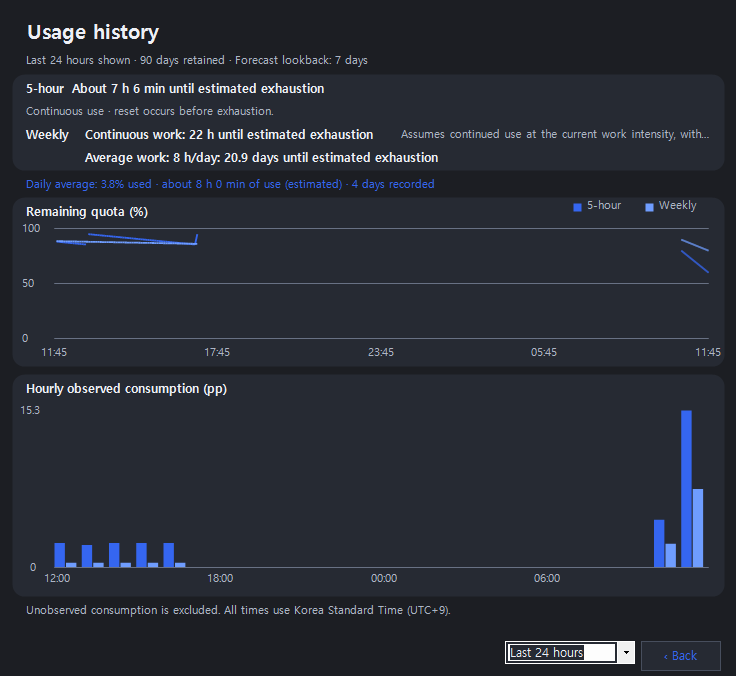
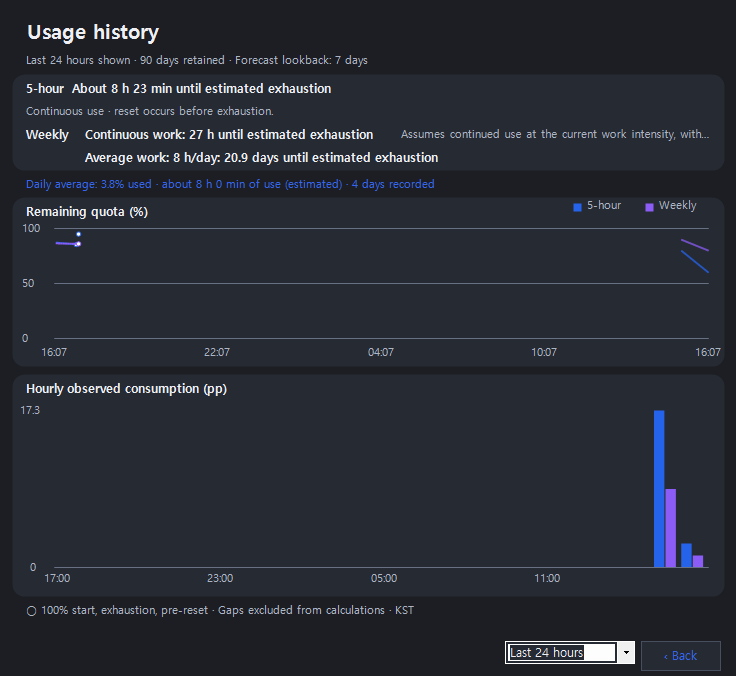
Release v1.0.1

diff --git a/src/HistoryDialog.cs b/src/HistoryDialog.cs
@@ -132,8 +132,9 @@ namespace CodexUsageTaskbar
                     float y=chart.Top+chart.Height*i/2; g.DrawLine(grid,chart.Left,y,chart.Right,y);
                     g.DrawString((100-i*50).ToString(),body,muted,20*s,y-8*s);
                 }
-                DrawSeries(g,chart,history,start,end,false,Widget.Accent,s);
-                Color weeklyColor=Color.FromArgb(111,157,255);
+                Color fiveColor=Color.FromArgb(37,99,235);
+                DrawSeries(g,chart,history,start,end,false,fiveColor,s);
+                Color weeklyColor=Color.FromArgb(139,92,246);
                 DrawSeries(g,chart,history,start,end,true,weeklyColor,s);
                 for(int i=0;i<=4;i++) {
                     var at=ExpiryDisplay.InKorea(start.AddDays(RangeDays*i/4.0)); float x=chart.Left+chart.Width*i/4;
@@ -145,7 +146,7 @@ namespace CodexUsageTaskbar
                 double bucketHours=RangeDays==1?1:RangeDays;
                 double max=1; var five=new double[24]; var week=new double[24];
                 for(int i=0;i<24;i++) { var a=hour.AddHours(i*bucketHours); five[i]=history.Consumption(a,a.AddHours(bucketHours),false); week[i]=history.Consumption(a,a.AddHours(bucketHours),true); max=Math.Max(max,Math.Max(five[i],week[i])); }
-                using(var blue=new SolidBrush(Widget.Accent)) using(var purple=new SolidBrush(weeklyColor)) {
+                using(var blue=new SolidBrush(fiveColor)) using(var purple=new SolidBrush(weeklyColor)) {
                     float step=bars.Width/24;
                     for(int i=0;i<24;i++) {
                         float a=(float)(bars.Height*five[i]/max),b=(float)(bars.Height*week[i]/max);
@@ -158,7 +159,7 @@ namespace CodexUsageTaskbar
                 using(var baseline=new Pen(p.Divider,s))g.DrawLine(baseline,bars.Left,bars.Bottom,bars.Right,bars.Bottom);
                 for(int i=0;i<24;i+=6)g.DrawString(ExpiryDisplay.InKorea(hour.AddHours(i*bucketHours)).ToString(RangeDays==1?"HH:mm":"MM/dd"),body,muted,bars.Left+bars.Width*i/24-12*s,bars.Bottom+3*s);
                 g.DrawString("0",body,muted,28*s,bars.Bottom-8*s);g.DrawString(max.ToString("0.#"),body,muted,18*s,bars.Top-8*s);
-                g.DrawString(Ui.Text("관측하지 못한 시간은 소모량을 추정하지 않습니다. 모든 시간은 한국 시간입니다."),body,muted,24*s,Height-30*s);
+                Line(g,Ui.Text("○ 100% 시작·소진·초기화 직전 · 조회 공백은 계산 제외 · 한국 시간"),body,muted,24*s,Height-30*s,Width-48*s,22*s);
                 if(history.Samples.Count<2)g.DrawString(Ui.Text("기록을 수집 중입니다. 사용 구간과 휴식 패턴이 쌓이면 추정합니다."),body,muted,chart.Left+8*s,chart.Top+45*s);
             }
         }
@@ -175,16 +176,34 @@ namespace CodexUsageTaskbar
         }
         public static void DrawSeries(Graphics g,RectangleF rect,UsageHistory history,DateTimeOffset start,DateTimeOffset end,bool weekly,Color color,float scale)
         {
-            var samples=history.Samples.Where(x=>x.At>=start.ToUnixTimeSeconds()&&x.At<=end.ToUnixTimeSeconds()).ToArray();
+            var samples=history.Samples.Where(x=>x.At>=start.ToUnixTimeSeconds()&&x.At<=end.ToUnixTimeSeconds()&&(weekly?x.Week:x.Five).HasValue).OrderBy(x=>x.At).ToArray();
+            double seconds=(end-start).TotalSeconds;
+            if(seconds<=0)return;
+            var resets=new System.Collections.Generic.List<PointF>();
+            Func<HistorySample,PointF> pointOf=x=>new PointF(rect.Left+(float)((x.At-start.ToUnixTimeSeconds())/seconds*rect.Width),rect.Bottom-(float)((weekly?x.Week.Value:x.Five.Value)/100*rect.Height));
+            if(samples.Length>0&&Math.Abs((weekly?samples[0].Week.Value:samples[0].Five.Value)-100)<.000001)resets.Add(pointOf(samples[0]));
             using(var pen=new Pen(color,1.8f*scale))for(int i=1;i<samples.Length;i++) {
                 var a=samples[i-1];var b=samples[i];double? av=weekly?a.Week:a.Five,bv=weekly?b.Week:b.Five;
                 long? ar=weekly?a.WeekReset:a.FiveReset,br=weekly?b.WeekReset:b.FiveReset;
-                if(!av.HasValue||!bv.HasValue||b.At-a.At>600||ar!=br)continue;
-                double seconds=(end-start).TotalSeconds;
+                if(!av.HasValue||!bv.HasValue||b.At<=a.At)continue;
                 var left=new PointF(rect.Left+(float)((a.At-start.ToUnixTimeSeconds())/seconds*rect.Width),rect.Bottom-(float)(av.Value/100*rect.Height));
                 var right=new PointF(rect.Left+(float)((b.At-start.ToUnixTimeSeconds())/seconds*rect.Width),rect.Bottom-(float)(bv.Value/100*rect.Height));
+                // 예정 시각의 작은 갱신은 주기 변경이 아닙니다. 실제 증가나 초기화 경계만 구분합니다.
+                if(bv.Value>av.Value+.000001||(ar.HasValue&&br.HasValue&&ar!=br&&ar.Value>a.At&&ar.Value<=b.At)) {
+                    resets.Add(left);
+                    if(Math.Abs(bv.Value-100)<.000001)resets.Add(right);
+                    continue;
+                }
+                // 조회 공백은 실선으로만 연결하며 소비량·예측 계산에는 포함하지 않습니다.
                 g.DrawLine(pen,left,right);
             }
+            if(samples.Length>0&&Math.Abs(weekly?samples[samples.Length-1].Week.Value:samples[samples.Length-1].Five.Value)<.000001)resets.Add(pointOf(samples[samples.Length-1]));
+            using(var outline=new Pen(color,1.2f*scale))using(var fill=new SolidBrush(Color.White))
+                foreach(var point in resets.Distinct()) {
+                    float radius=2.25f*scale;
+                    var marker=new RectangleF(point.X-radius,point.Y-radius,radius*2,radius*2);
+                    g.FillEllipse(fill,marker);g.DrawEllipse(outline,marker);
+                }
         }
     }
 }

diff --git a/tests/Tests.cs b/tests/Tests.cs
@@ -244,6 +244,35 @@ namespace CodexUsageTaskbar
                 chart.DrawToBitmap(bitmap,chart.ClientRectangle);
                 Check(bitmap.GetPixel(0,0).R>200,"History chart renders the selected longer period offscreen");
             }
+            var gapChart=new UsageHistory(Path.Combine(root,"chart-gaps.json"));
+            long gapStart=now.AddHours(-2).ToUnixTimeSeconds();
+            gapChart.Samples.Add(new HistorySample {At=gapStart,Five=80,FiveReset=gapStart+86400});
+            gapChart.Samples.Add(new HistorySample {At=gapStart+3600,Five=80,FiveReset=gapStart+86400});
+            using(var bitmap=new Bitmap(120,100))using(var graphics=Graphics.FromImage(bitmap)) {
+                graphics.Clear(Color.White);
+                HistoryCanvas.DrawSeries(graphics,new RectangleF(10,10,100,80),gapChart,DateTimeOffset.FromUnixTimeSeconds(gapStart),DateTimeOffset.FromUnixTimeSeconds(gapStart+3600),false,Color.Blue,1);
+                int colored=0,blank=0;for(int x=20;x<100;x++){if(bitmap.GetPixel(x,26).B>bitmap.GetPixel(x,26).R)colored++;else blank++;}
+                Check(colored>0&&blank==0,"Observation gaps are connected with a solid visual line");
+                gapChart.Samples[1].FiveReset++;
+                graphics.Clear(Color.White);
+                HistoryCanvas.DrawSeries(graphics,new RectangleF(10,10,100,80),gapChart,DateTimeOffset.FromUnixTimeSeconds(gapStart),DateTimeOffset.FromUnixTimeSeconds(gapStart+3600),false,Color.Blue,1);
+                Check(bitmap.GetPixel(50,26).B>bitmap.GetPixel(50,26).R,"Small reset timestamp changes do not interrupt the observed line");
+                gapChart.Samples[1].Five=90;
+                graphics.Clear(Color.White);
+                HistoryCanvas.DrawSeries(graphics,new RectangleF(10,10,100,80),gapChart,DateTimeOffset.FromUnixTimeSeconds(gapStart),DateTimeOffset.FromUnixTimeSeconds(gapStart+3600),false,Color.Blue,1);
+                Check(bitmap.GetPixel(50,26).ToArgb()==Color.White.ToArgb(),"Reset cycles are never bridged by the history chart");
+                Check(bitmap.GetPixel(108,18).ToArgb()==Color.White.ToArgb(),"Reset observations below 100% do not receive a start marker");
+                Check(bitmap.GetPixel(8,26).B>bitmap.GetPixel(8,26).R,"Last observation before reset receives a small endpoint ring");
+                gapChart.Samples[1].Five=100;
+                graphics.Clear(Color.White);
+                HistoryCanvas.DrawSeries(graphics,new RectangleF(10,10,100,80),gapChart,DateTimeOffset.FromUnixTimeSeconds(gapStart),DateTimeOffset.FromUnixTimeSeconds(gapStart+3600),false,Color.Blue,1);
+                Check(bitmap.GetPixel(108,10).B>bitmap.GetPixel(108,10).R,"Reset to 100% receives a small ring marker");
+                gapChart.Samples[1].Five=0;
+                graphics.Clear(Color.White);
+                HistoryCanvas.DrawSeries(graphics,new RectangleF(10,10,100,80),gapChart,DateTimeOffset.FromUnixTimeSeconds(gapStart),DateTimeOffset.FromUnixTimeSeconds(gapStart+3600),false,Color.Blue,1);
+                Check(bitmap.GetPixel(110,92).B>bitmap.GetPixel(110,92).R,"Exhausted quota receives one endpoint ring");
+                Check(gapChart.Consumption(DateTimeOffset.FromUnixTimeSeconds(gapStart),DateTimeOffset.FromUnixTimeSeconds(gapStart+3600),false)==0,"Visual gap connections do not add unobserved consumption");
+            }
             foreach(int density in new[]{96,192})using(var bitmap=new Bitmap(720,620)) {
                 bitmap.SetResolution(density,density);
                 using(var graphics=Graphics.FromImage(bitmap))

diff --git a/src/Usage.cs b/src/Usage.cs
@@ -158,7 +158,7 @@ namespace CodexUsageTaskbar
                     try
                     {
                         await Send(current, new { id = 1, method = "initialize", @params = new { clientInfo = new {
-                            name = "gpt_usage_widget", title = "GPT Usage Widget", version = "1.0.0" } } });
+                            name = "gpt_usage_widget", title = "GPT Usage Widget", version = "1.0.1" } } });
                         stage = "initialize/read";
                         await Receive(current, 1);
                         stage = "initialized/send";

diff --git a/src/AssemblyInfo.cs b/src/AssemblyInfo.cs
@@ -4,6 +4,6 @@ using System.Reflection;
 [assembly: AssemblyDescription("Windows taskbar widget for remaining Codex quota")]
 [assembly: AssemblyProduct("GPT Usage Widget")]
 [assembly: AssemblyCopyright("Copyright (c) 2026 GPT Usage Widget contributors")]
-[assembly: AssemblyVersion("1.0.0.0")]
-[assembly: AssemblyFileVersion("1.0.0.0")]
-[assembly: AssemblyInformationalVersion("1.0.0")]
+[assembly: AssemblyVersion("1.0.1.0")]
+[assembly: AssemblyFileVersion("1.0.1.0")]
+[assembly: AssemblyInformationalVersion("1.0.1")]

diff --git a/CHANGELOG.md b/CHANGELOG.md
@@ -1,5 +1,13 @@
 # 변경 이력
 
+## 1.0.1
+
+- 사용 추이의 5시간은 파랑, 주간은 보라로 구분하고 선·막대·범례의 색상을 통일합니다.
+- 조회 공백을 실선으로 연결합니다. 이 연결은 화면 표시이며 관측하지 못한 소비를 사용량·예측 계산에 추가하지 않습니다.
+- 초기화 예정 시각의 작은 변경 때문에 관측선이 끊기던 문제를 수정합니다. 실제 잔량 증가나 초기화 경계에서 사용 주기를 구분합니다.
+- 100% 시작점과 0% 종료점 또는 초기화 직전 마지막 관측값에만 작은 원형 마커를 표시합니다. 기록에 없는 100% 값이나 정확한 초기화 시각을 만들어내지 않습니다.
+- 기존 설정·사용 기록의 저장 위치와 호환성을 유지합니다.
+
 ## 1.0.0
 
 - 제품명과 배포 이름을 `GPT Usage Widget`으로 지정합니다. 한국어 실행 파일은 `GPTUsageWidget.exe`, 영어판은 `GPTUsageWidget.en.exe`입니다. 기존 기록 폴더와 내부 식별자를 유지하여 이전 기록을 보존합니다.

diff --git a/README.md b/README.md
@@ -28,7 +28,7 @@ Settings:
 2. Download a Windows x64 ZIP from [Releases](https://github.com/eespark/gpt-usage-widget/releases) and extract it.
 3. Run `GPTUsageWidget.en.exe` for English or `GPTUsageWidget.exe` for Korean.
 
-The English archive is `GPTUsageWidget-v1.0.0-win-x64-en.zip`; the Korean archive is `GPTUsageWidget-v1.0.0-win-x64.zip`. If no release has been published, build from source using the instructions below.
+The English archive is `GPTUsageWidget-v1.0.1-win-x64-en.zip`; the Korean archive is `GPTUsageWidget-v1.0.1-win-x64.zip`. If no release has been published, build from source using the instructions below.
 
 ## Requirements and sign-in
 
